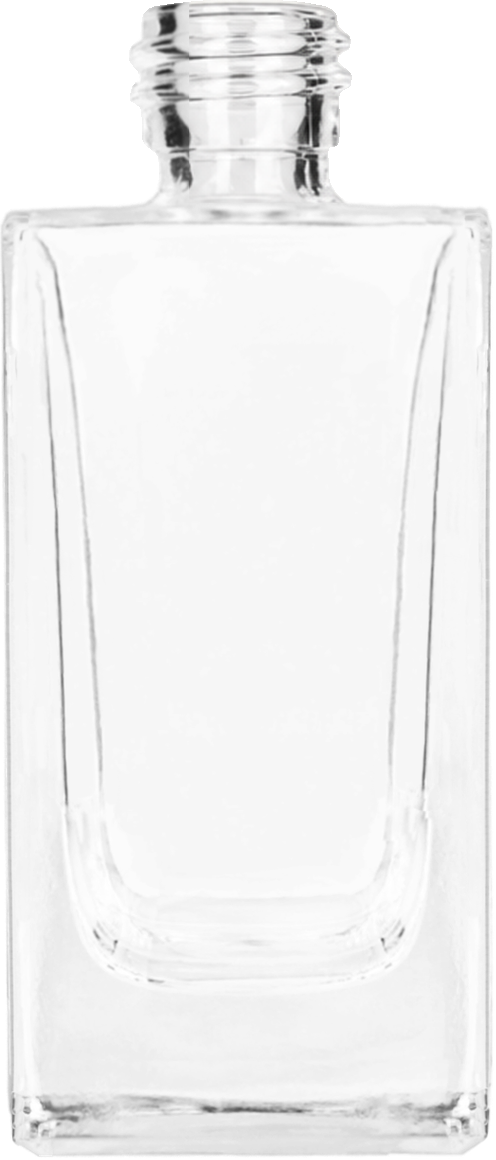
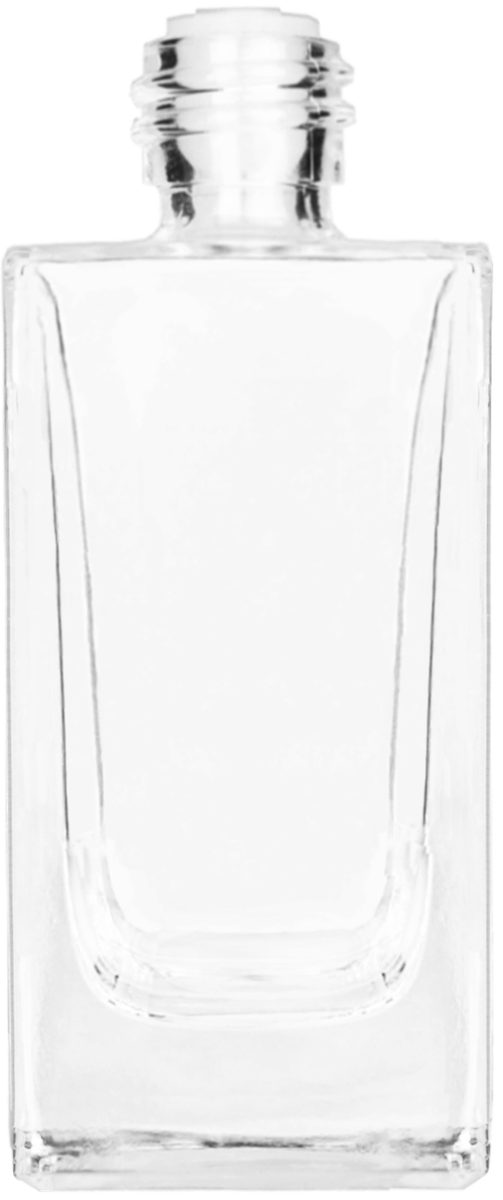
Builder bodies: Empire 50 ml head-on bare glass from the sprayer master
Jordan, 2026-09-16: the Empire body carried the reducer in the neck; the
three-quarter Sideviews file was not the regular head-on shot. The body is
now the head-on body layer of GBEmp50AnSpBlk.psd (the bulb sprayer is its
own layer above it; the glass beneath has an empty neck), no edit involved.
Before/after with the necks enlarged on the review page.

family_part_map.py: the body is the foot layer that spans the other layers'
centres (a tassel assembly hangs beside the bottle), and a narrow dropper is
no longer taken for a twin body.

diff --git a/scripts/paperdoll/family_part_map.py b/scripts/paperdoll/family_part_map.py
@@ -47,16 +47,28 @@ for sku, (rel, sha, layers, psd) in inventories.items():
     # visible pixel layers (a tassel hangs beside the bottle and can be larger than it)
     pix = [l for l in visible if l.get('kind', 'pixel') == 'pixel']
     ux0 = min(l['bounds'][0] for l in pix); ux1 = max(l['bounds'][2] for l in pix); uy1 = max(l['bounds'][3] for l in pix)
-    foot = [l for l in pix if l['bounds'][3] >= uy1 - 0.02 * psd.height and l['bounds'][0] <= (ux0 + ux1) / 2 <= l['bounds'][2]]
-    body = max(foot or pix, key=area); bx0, by0, bx1, by1 = body['bounds']; bw, bh = bx1 - bx0, by1 - by0
-    parts = {'body': [body['index']]}; evidence = [f"body: {desc(body)} (owns the foot at the bottom centre)"]
+    # a dip tube can hang below the foot: the body is also wide (at least 40 % of the union)
+    foot = [l for l in pix if l['bounds'][3] >= uy1 - 0.05 * psd.height and l['bounds'][0] <= (ux0 + ux1) / 2 <= l['bounds'][2] and (l['bounds'][2] - l['bounds'][0]) >= 0.4 * (ux1 - ux0)]
+    # the same glass photograph is reused across a bottle's SKUs, a top is not: a
+    # layer whose pixels recur in other masters is the body before a tassel
+    # assembly that happens to be larger and to reach the foot
+    # every other part sits on the bottle's axis: the body is the foot candidate
+    # whose width spans the centres of the most other layers (a tassel assembly
+    # hangs beside the bottle and spans none of them); ties go to the layer whose
+    # pixels recur in other masters, then to area
+    def spans(l):
+        x0, x1 = l['bounds'][0], l['bounds'][2]
+        return sum(1 for o in pix if o is not l and x0 <= (o['bounds'][0] + o['bounds'][2]) / 2 <= x1)
+    cands = foot or pix
+    body = max(cands, key=lambda l: (spans(l), share[l['pixelHash']] >= 2, area(l))); bx0, by0, bx1, by1 = body['bounds']; bw, bh = bx1 - bx0, by1 - by0
+    parts = {'body': [body['index']]}; evidence = [f"body: {desc(body)} (owns the foot, spans {spans(body)} other layer centre(s))"]
     for l in visible:
         if l is body: continue
         x0, y0, x1, y1 = l['bounds']; w, h = x1 - x0, y1 - y0
         if l.get('kind') == 'shape':
             # vector retouch strokes on the glass belong with the body
             parts['body'].append(l['index']); evidence.append(f"body (vector retouch stroke): {desc(l)}"); continue
-        if area(l) >= 0.6 * area(body) and h >= 0.8 * bh:
+        if area(l) >= 0.6 * area(body) and h >= 0.8 * bh and w >= 0.9 * bw:
             exclude[str(l['index'])] = f"unused twin body left under the body layer: {desc(l)}; covered by layer {body['index']}, plate parity proves it"; continue
         inside = x0 >= bx0 - 5 and x1 <= bx1 + 5 and y0 >= by0 - 5 and y1 <= by1 + 5
         if h > 0.45 * bh and w < 0.35 * bw and inside: slot = 'diptube' if 'Dropper' not in app else 'pipette'
